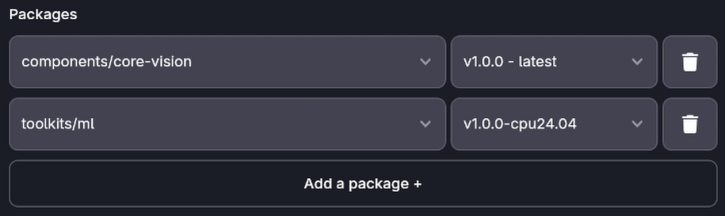
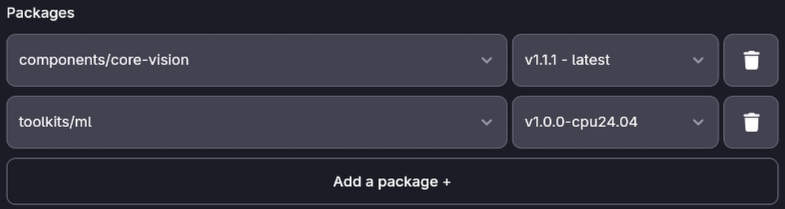
update example and versions

diff --git a/docs/docs/examples/guides/object-detection-example.md b/docs/docs/examples/guides/object-detection-example.md
@@ -9,6 +9,7 @@ import yoloExecutorParameters from './assets/object-detection-yolo-executor-para
 import boundingBoxTracker from './assets/object-detection-robot-control.png'
 import launcherToolkitsCPU from './assets/launcher-toolkits-cpu.png'
 import launcherToolkitsGPU from './assets/launcher-toolkits-gpu.png'
+import launcherEnableGPU from './assets/launcher-enable-gpu.png'
 
 import Tabs from '@theme/Tabs';
 import TabItem from '@theme/TabItem';
@@ -106,7 +107,7 @@ In AICA Launcher, create a configuration with the following core version and pac
 - AICA Launcher v1.4.1 or higher
 - AICA Core v5.0.0 or higher
 - `advanced_perception` v1.0.0 for the `YoloExecutor` component
-- `core-vision` v1.0.0 or higher for the `CameraStreamer` component
+- `core-vision` v1.1.1 or higher for the `CameraStreamer` component
 - CPU or GPU toolkit at v1.0.0 (subject to change in newer versions of `core-vision` and/or `advanced-perception`)
 
 :::info
@@ -130,6 +131,13 @@ AICA Launcher configuration could look as follows:
 <div class="text--center">
   <img src={launcherToolkitsGPU} alt="AICA Launcher configuration for CPU and GPU runtime" />
 </div>
+
+When using the CUDA toolkit, do not forget to enable GPU capabilities under the **Advanced Settings** menu:
+
+<div class="text--center">
+  <img src={launcherEnableGPU} alt="AICA Launcher configuration with GPU capabilities" />
+</div>
+
 </TabItem>
 </Tabs>
 
@@ -192,8 +200,7 @@ Open the application we built in the previous step, if you are not already there
 - open **RViz**: from the bottom-right gear icon **→** "Launch RViz"
 - in **RViz**: press Add **→** By topic **→** `/yolo_executor/annotated_image/Image` to view the YOLO model's annotated
 output. It should show the camera images with bounding boxes drawn around key objects. The bounding boxes are
-published on the `yolo_executor/detections` topic as `std_msgs/msg/String`, which is in fact a JSON string with
-object-related information (e.g., bounding box coordinates, class name, class id, ...).
+published on the `yolo_executor/detections` topic as `vision_msgs/msg/Detection2DArray`, a ROS perception message (e.g., containing bounding box coordinates, class name, score, ...).
 
 :::note
 
@@ -244,18 +251,19 @@ python_components =
 
 #### Component code
 
-As discussed, the component expects a JSON string as input (e.g. from `YoloExecutor`) containing a bounding box. From
-that bounding box, it generates a `CartesianTwist` which can be used to control a robot. Below you will find the
-implementation of the component, which can be copied directly into your `bounding_box_tracker.py`.
+As discussed, the component expects a `Detection2DArray` as input (e.g. from `YoloExecutor`) containing, among other
+things, a bounding box. From that bounding box, it generates a `CartesianTwist` which can be used to control a robot.
+Below you will find the implementation of the component, which can be copied directly into your
+`bounding_box_tracker.py`.
 
 <details>
 <summary>bounding_box_tracker.py</summary>
 
 ```python
-import json
 import numpy as np
 
-from std_msgs.msg import String
+from rclpy.lifecycle import LifecycleState
+from vision_msgs.msg import Detection2DArray, Detection2D
 from lifecycle_msgs.msg import State as LifecycleState
 
 from modulo_components.lifecycle_component import LifecycleComponent
@@ -267,18 +275,14 @@ class BoundingBoxTracker(LifecycleComponent):
     def __init__(self, node_name: str, *args, **kwargs):
         super().__init__(node_name, *args, **kwargs)
         self._decay_rate: sr.Parameter = sr.Parameter("decay_rate", 1.0, sr.ParameterType.DOUBLE)
-        self._twist = sr.CartesianTwist.Zero("object", "camera_frame")
+        self._twist = sr.CartesianTwist.Zero("object", "world")
         self._latest_twist = sr.CartesianTwist()
-        self._camera_frame = sr.Parameter("camera_frame", "camera_frame", sr.ParameterType.STRING)
-        self._reference_frame = sr.Parameter("reference_frame", sr.ParameterType.STRING)
+        self._reference_frame: str = ""
+        self._camera_frame: str = ""
 
         self.add_parameter(
             sr.Parameter("image_size", [640, 480], sr.ParameterType.DOUBLE_ARRAY),
             "Image resolution [width, height] in pixels",
-        )
-        self.add_parameter("_camera_frame", "Reference frame for the output twist")
-        self.add_parameter(
-            "_reference_frame", "Optional reference frame with respect to which the output twist should be recomputed"
         )
         self.add_parameter(sr.Parameter("gains", [0.0001, 0.0001], sr.ParameterType.DOUBLE_ARRAY), "Control gains (Kp)")
         self.add_parameter(
@@ -286,8 +290,12 @@ class BoundingBoxTracker(LifecycleComponent):
             "Deadband for the error measurements [width, height], within which no twist is generated",
         )
         self.add_parameter("_decay_rate", "Exponential decay rate")
+        self.add_parameter(
+            sr.Parameter("reference_frame", sr.ParameterType.STRING),
+            "Optional reference frame for the output twist. If not set, the camera frame will be used.",
+        )
 
-        self.add_input("detections", self._on_receive_detections, String)
+        self.add_input("detections", self._on_receive_detections, Detection2DArray)
         self.add_output("twist", "_twist", EncodedState)
 
         self.add_tf_listener()
@@ -302,9 +310,9 @@ class BoundingBoxTracker(LifecycleComponent):
                 if any(g < 0 for g in parameter.get_value()):
                     self.get_logger().error(f"{name} must be non-negative")
                     return False
-            case "reference_frame" | "camera_frame":
-                if not parameter.is_empty() and not parameter.get_value():
-                    self.get_logger().error(f"{name} parameter cannot be empty")
+            case "reference_frame":
+                if not parameter.is_empty() and len(parameter.get_value()) == 0:
+                    self.get_logger().error("Reference frame must be a non-empty string")
                     return False
             case "decay_rate":
                 if parameter.get_value() < 0:
@@ -313,20 +321,24 @@ class BoundingBoxTracker(LifecycleComponent):
         return True
 
     def on_activate_callback(self) -> bool:
-        if self._reference_frame.is_empty():
-            self._reference_frame.set_value(self._camera_frame.get_value())
-        self._twist = sr.CartesianTwist.Zero("object", self._reference_frame.get_value())
-        self._latest_twist = sr.CartesianTwist.Zero("object", self._camera_frame.get_value())
+        if not self.get_parameter("reference_frame").is_empty():  # type: ignore
+            self._reference_frame = self.get_parameter_value("reference_frame")
         return True
 
     def on_step_callback(self) -> None:
+        if len(self._camera_frame) == 0:
+            self.get_logger().debug(
+                "No detections received yet or no valid camera frame was found in the message",
+                throttle_duration_sec=3.0,
+            )
+            return
         decay_factor = np.exp(-self._decay_rate.get_value() * self._latest_twist.get_age())
-        twist = sr.CartesianTwist.Zero("object", self._camera_frame.get_value())
+        twist = sr.CartesianTwist.Zero("object", self._camera_frame)
         twist.set_linear_velocity(np.array(self._latest_twist.get_linear_velocity()) * decay_factor)
 
-        if not self._camera_frame.get_value() == self._reference_frame.get_value():
+        if len(self._reference_frame) > 0 and not self._camera_frame == self._reference_frame:
             try:
-                tf = self.lookup_transform(self._camera_frame.get_value(), self._reference_frame.get_value())
+                tf = self.lookup_transform(self._camera_frame, self._reference_frame)
             except Exception as e:
                 self.get_logger().error(f"Failed to lookup transform: {e}")
                 return
@@ -334,40 +346,52 @@ class BoundingBoxTracker(LifecycleComponent):
         else:
             self._twist = twist
 
-    def _on_receive_detections(self, msg: String):
+    def on_deactivate_callback(self) -> bool:
+        self._camera_frame = ""
+        return True
+
+    def _on_receive_detections(self, msg: Detection2DArray):
         if self.get_lifecycle_state().state_id != LifecycleState.PRIMARY_STATE_ACTIVE:
-            self.get_logger().warning("Component is not active. Ignoring incoming detections.")
+            self.get_logger().debug("Component is not active. Ignoring incoming detections.", throttle_duration_sec=1.0)
             return
 
         image_size = self.get_parameter("image_size").get_value()  # type: ignore
         gains = self.get_parameter("gains").get_value()  # type: ignore
-        try:
-            detections = json.loads(msg.data)["detections"]
-            positions = {}
-            for i, d in enumerate(detections):
-                center = np.asarray([d["box"]["x"] + d["box"]["width"] / 2.0, d["box"]["y"] + d["box"]["height"] / 2.0])
-                positions[f"{d['class_name']}_{i}"] = center
 
-            if len(positions):
-                obj = positions[
-                    list(positions.keys())[0]
-                ]  # ! naively assumes we are tracking only the first object detected
-                width_error = obj[0] - image_size[0] / 2
-                height_error = obj[1] - image_size[1] / 2
-                vx = 0.0
-                vy = 0.0
-                if abs(width_error) > self.get_parameter("deadband").get_value()[1]:  # type: ignore
-                    vx = width_error * gains[0]
-                if abs(height_error) > self.get_parameter("deadband").get_value()[0]:  # type: ignore
-                    vy = height_error * gains[1]
+        if len(msg.detections) == 0:
+            self.get_logger().warn(
+                "No objects detected. Holding last known position with decay.", throttle_duration_sec=1.0
+            )
+            return
+        elif len(msg.detections) > 1:
+            self.get_logger().warn("Multiple objects detected. Tracking only the first one.", throttle_duration_sec=1.0)
 
-                self._latest_twist.set_linear_velocity(
-                    vx, vy, 0.0
-                )  # !z is explicitly zero for the purposes of this component
-        except json.JSONDecodeError as e:
-            self.get_logger().error(f"Failed to decode JSON: {e}")
-        except KeyError as e:
-            self.get_logger().error(f"Missing key in JSON: {e}")
+        obj: Detection2D = msg.detections[0]  # type: ignore
+
+        if self._camera_frame != obj.header.frame_id:
+            self._twist = sr.CartesianTwist.Zero("object", self._camera_frame)
+            self._latest_twist = sr.CartesianTwist.Zero("object", self._camera_frame)
+        self._camera_frame = obj.header.frame_id
+
+        if not self._reference_frame:
+            self._twist.set_reference_frame(self._reference_frame)
+
+        positions = {}
+        positions[f"{obj.results[0].hypothesis.class_id}"] = np.asarray(  # type: ignore
+            [obj.bbox.center.position.x, obj.bbox.center.position.y]
+        )
+
+        bbox = positions[list(positions.keys())[0]]
+        width_error = bbox[0] - image_size[0] / 2
+        height_error = bbox[1] - image_size[1] / 2
+        vx = 0.0
+        vy = 0.0
+        if abs(width_error) > self.get_parameter("deadband").get_value()[1]:  # type: ignore
+            vx = width_error * gains[0]
+        if abs(height_error) > self.get_parameter("deadband").get_value()[0]:  # type: ignore
+            vy = height_error * gains[1]
+
+        self._latest_twist.set_linear_velocity(vx, vy, 0.0)
 ```
 
 </details>
@@ -382,17 +406,18 @@ And its corresponding description file:
   "$schema": "https://docs.aica.tech/schemas/1-1-1/component.schema.json",
   "name": "Bounding box tracker",
   "description": {
-    "brief": "Reads bounding boxes and outputs an interactive marker",
-    "details": "This component receives object detection outputs in JSON format and computes the corresponding twist command for the detected object to remain at the middle of the frame. The Z axis is not considered (i.e., only X-Y plane commands will be issued)."
+    "brief": "Receive object detection messages and outputs a twist command to keep an object at the center of a camera's frame",
+    "details": "This component receives Detection2DArray messages and computes a twist command for the detected object to remain at the center of the frame. The Z axis is not considered (i.e., only X-Y plane commands will be issued)."
   },
   "registration": "object_detection_utils::BoundingBoxTracker",
   "inherits": "modulo_components::LifecycleComponent",
   "inputs": [
     {
       "display_name": "Detections",
-      "description": "Detection JSON string containing bounding box information",
+      "description": "Detection array containing bounding box information of detected objects",
       "signal_name": "detections",
-      "signal_type": "string"
+      "signal_type": "other",
+      "custom_signal_type": "vision_msgs::msg::Detection2DArray"
     }
   ],
   "outputs": [
@@ -410,21 +435,6 @@ And its corresponding description file:
       "parameter_name": "image_size",
       "parameter_type": "double_array",
       "default_value": "[640, 480]"
-    },
-    {
-      "display_name": "Camera frame",
-      "description": "Reference frame for the output twist",
-      "parameter_name": "camera_frame",
-      "parameter_type": "string",
-      "default_value": "camera_frame"
-    },
-    {
-      "display_name": "Reference frame",
-      "description": "Optional reference frame with respect to which the output twist should be recomputed",
-      "parameter_name": "reference_frame",
-      "parameter_type": "string",
-      "default_value": null,
-      "optional": true
     },
     {
       "display_name": "Control gains",
@@ -446,6 +456,14 @@ And its corresponding description file:
       "parameter_name": "decay_rate",
       "parameter_type": "double",
       "default_value": "1.0"
+    },
+    {
+      "display_name": "Reference frame",
+      "description": "Optional reference frame for the output twist. If not set, the camera frame will be used.",
+      "parameter_name": "reference_frame",
+      "parameter_type": "string",
+      "default_value": null,
+      "optional": true
     }
   ]
 }
@@ -480,15 +498,12 @@ Add a Hardware Interface node to the application and select the `Generic six-axi
 Press on the **+** button to add a new controller and select the `IK Velocity Controller`. Make sure to enable the
 **auto-configure** and **auto-activate** options.
 
-Back at your `BoundingBoxTracker` component:
+In your `CameraStreamer` component's settings, set the `Camera frame` parameter to `tool0`. This way, you are naively
+assuming that your camera lens is attached at the center of the robot tool, hence allowing the controller to translate
+the desired twist.
 
-- Open the parameter menu and set `Camera frame` to `tool0`. That means that we assume the camera is mounted on `tool0`,
-the robot's end effector. You can replace this frame with a recorded one or an existing frame in your robot model's tree.
-- From the same menu, set `Reference frame` to `world`. By default, the twist is generated at the same reference frame
-as `Camera frame`, but you can optionally set the output reference frame explicitly. This may be useful when a
-controller, such as the `IK Velocity Controller`, expects a command in a specific reference frame (e.g., `world` in this
-case)
-- Finally, connect the `Twist` output of this component to the `Command` input of the `IK Velocity Controller`.
+Back at your `BoundingBoxTracker` component, connect the `Twist` output of this component to the `Command` input of the
+`IK Velocity Controller`.
 
 :::tip
 
@@ -588,6 +603,10 @@ components:
         on_activate:
           load:
             component: yolo_executor
+    parameters:
+      camera_frame:
+        value: ur_tool0
+        type: string
     outputs:
       image: /camera_streamer/image
   bounding_box_tracker:
@@ -604,16 +623,13 @@ components:
             component: bounding_box_tracker
             transition: activate
     parameters:
-      camera_frame:
-        value: tool0
-        type: string
-      reference_frame:
-        value: world
-        type: string
+      rate:
+        value: 100
+        type: double
       gains:
         value:
-          - 0.002
-          - 0.002
+          - 0.001
+          - 0.001
         type: double_array
     inputs:
       detections: /yolo_executor/detections
@@ -702,30 +718,30 @@ graph:
           y: 120
         - x: 1200
           y: 380
-    on_start_on_start_camera_streamer_camera_streamer:
-      path:
-        - x: 140
-          y: -300
-        - x: 140
-          y: -240
     yolo_executor_on_activate_bounding_box_tracker_bounding_box_tracker:
       path:
         - x: 1300
           y: 0
         - x: 1300
           y: 240
-    camera_streamer_image_yolo_executor_image:
-      path:
-        - x: 640
-          y: -40
-        - x: 640
-          y: 120
     yolo_executor_detections_bounding_box_tracker_detections:
       path:
         - x: 1220
           y: 120
         - x: 1220
           y: 400
+    on_start_on_start_camera_streamer_camera_streamer:
+      path:
+        - x: 140
+          y: -300
+        - x: 140
+          y: -240
+    camera_streamer_image_yolo_executor_image:
+      path:
+        - x: 640
+          y: -40
+        - x: 640
+          y: 120
 ```
 
 </details>
